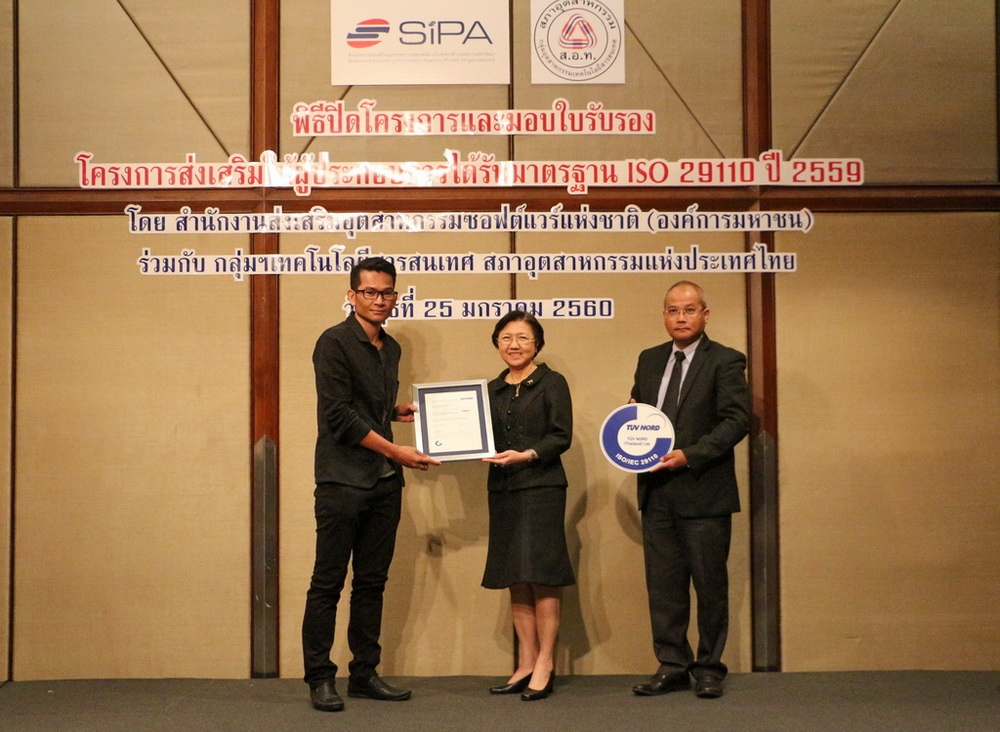
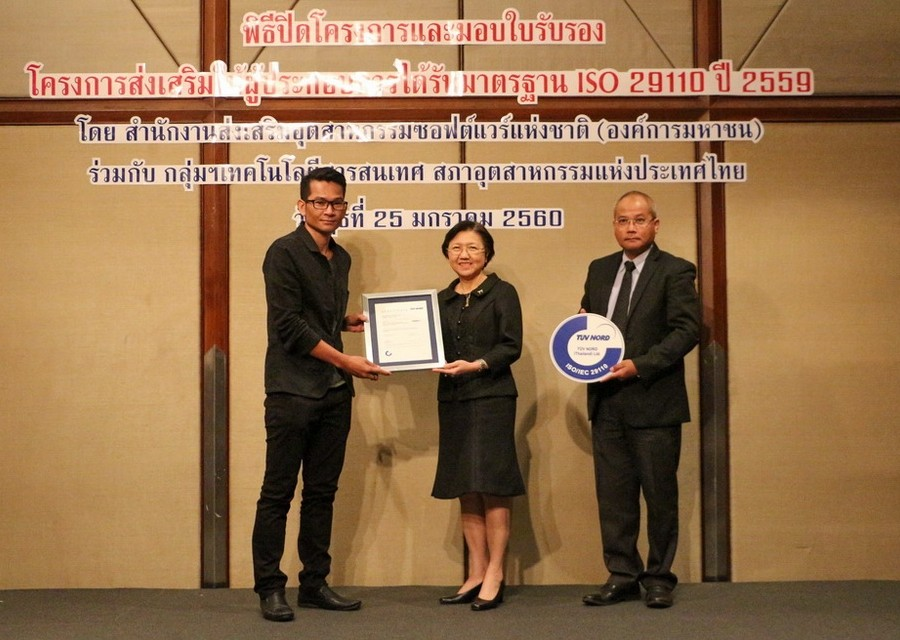
feat: optimize ceremony photo framing and object positioning to prominently feature recipients

diff --git a/components/NewsBentoSection.vue b/components/NewsBentoSection.vue
@@ -159,15 +159,16 @@ onUnmounted(() => {
                   </div>
                 </div>
 
-                <!-- Bottom Photo with Seamless Fade Mask -->
-                <div class="relative w-full h-[220px] sm:h-[250px] overflow-hidden mt-auto">
+                <!-- Bottom Photo with Subtle Edge Blend -->
+                <div class="relative w-full h-[220px] sm:h-[250px] overflow-hidden mt-auto bg-slate-100">
                   <img
                     :src="slide[0].image"
                     :alt="slide[0].title"
                     loading="lazy"
-                    class="w-full h-full object-cover object-top group-hover:scale-105 transition-transform duration-700 ease-out"
+                    :style="slide[0].imagePosition ? { objectPosition: slide[0].imagePosition } : {}"
+                    class="w-full h-full object-cover object-center group-hover:scale-105 transition-transform duration-700 ease-out"
                   />
-                  <div class="absolute inset-0 bg-gradient-to-t from-transparent via-white/10 to-white/95 pointer-events-none"></div>
+                  <div class="absolute top-0 inset-x-0 h-6 bg-gradient-to-b from-white to-transparent pointer-events-none"></div>
                 </div>
               </NuxtLink>
             </div>
@@ -204,15 +205,16 @@ onUnmounted(() => {
                   </div>
                 </div>
 
-                <!-- Bottom Photo with Seamless Fade Mask -->
-                <div class="relative w-full h-[220px] sm:h-[250px] overflow-hidden mt-auto">
+                <!-- Bottom Photo with Subtle Edge Blend -->
+                <div class="relative w-full h-[220px] sm:h-[250px] overflow-hidden mt-auto bg-slate-100">
                   <img
                     :src="slide[1].image"
                     :alt="slide[1].title"
                     loading="lazy"
-                    class="w-full h-full object-cover object-top group-hover:scale-105 transition-transform duration-700 ease-out"
+                    :style="slide[1].imagePosition ? { objectPosition: slide[1].imagePosition } : {}"
+                    class="w-full h-full object-cover object-center group-hover:scale-105 transition-transform duration-700 ease-out"
                   />
-                  <div class="absolute inset-0 bg-gradient-to-t from-transparent via-white/10 to-white/95 pointer-events-none"></div>
+                  <div class="absolute top-0 inset-x-0 h-6 bg-gradient-to-b from-white to-transparent pointer-events-none"></div>
                 </div>
               </NuxtLink>
             </div>
@@ -254,15 +256,16 @@ onUnmounted(() => {
                   </div>
                 </div>
 
-                <!-- Bottom Photo with Seamless Fade Mask -->
-                <div class="relative w-full h-[210px] sm:h-[240px] overflow-hidden mt-auto">
+                <!-- Bottom Photo with Subtle Edge Blend -->
+                <div class="relative w-full h-[210px] sm:h-[240px] overflow-hidden mt-auto bg-slate-100">
                   <img
                     :src="post.image"
                     :alt="post.title"
                     loading="lazy"
-                    class="w-full h-full object-cover object-top group-hover:scale-105 transition-transform duration-700 ease-out"
+                    :style="post.imagePosition ? { objectPosition: post.imagePosition } : {}"
+                    class="w-full h-full object-cover object-center group-hover:scale-105 transition-transform duration-700 ease-out"
                   />
-                  <div class="absolute inset-0 bg-gradient-to-t from-transparent via-white/10 to-white/95 pointer-events-none"></div>
+                  <div class="absolute top-0 inset-x-0 h-6 bg-gradient-to-b from-white to-transparent pointer-events-none"></div>
                 </div>
               </NuxtLink>
             </div>
@@ -312,15 +315,16 @@ onUnmounted(() => {
               </div>
             </div>
 
-            <!-- Bottom Photo with Fade -->
-            <div class="relative w-full h-[200px] overflow-hidden mt-auto">
+            <!-- Bottom Photo with Subtle Edge Blend -->
+            <div class="relative w-full h-[200px] overflow-hidden mt-auto bg-slate-100">
               <img
                 :src="post.image"
                 :alt="post.title"
                 loading="lazy"
-                class="w-full h-full object-cover object-top"
+                :style="post.imagePosition ? { objectPosition: post.imagePosition } : {}"
+                class="w-full h-full object-cover object-center"
               />
-              <div class="absolute inset-0 bg-gradient-to-t from-transparent via-white/10 to-white/95 pointer-events-none"></div>
+              <div class="absolute top-0 inset-x-0 h-6 bg-gradient-to-b from-white to-transparent pointer-events-none"></div>
             </div>
           </NuxtLink>
         </div>

diff --git a/pages/news/[slug].vue b/pages/news/[slug].vue
@@ -129,29 +129,26 @@ useSeoMeta({
         <!-- Main Cover Photo (รูปแรกคือหน้าปกที่จะเห็น) -->
         <div class="mb-10">
           <div
-            class="group relative overflow-hidden rounded-[24px] sm:rounded-[32px] bg-slate-900 border border-slate-200/80 shadow-xl cursor-pointer"
+            class="group relative overflow-hidden rounded-[24px] sm:rounded-[32px] bg-slate-100 border border-slate-200/80 shadow-xl cursor-pointer"
             @click="openImagePreview(post.image, post.title, post.imageCaption)"
           >
             <img
               :src="post.image"
               :alt="post.title"
-              class="w-full h-auto max-h-[680px] object-cover object-top group-hover:scale-[1.01] transition-transform duration-500 ease-out"
+              :style="post.imagePosition ? { objectPosition: post.imagePosition } : {}"
+              class="w-full h-auto max-h-[760px] object-cover object-center group-hover:scale-[1.01] transition-transform duration-500 ease-out"
             />
-            <div class="absolute inset-0 bg-gradient-to-t from-black/75 via-black/15 to-transparent flex items-end p-5 sm:p-7">
-              <div class="flex items-center justify-between w-full text-white">
-                <span class="text-xs sm:text-sm font-medium line-clamp-1 max-w-[85%] drop-shadow">
-                  {{ post.title }}
-                </span>
-                <span class="flex items-center gap-1 text-[11px] bg-white/20 hover:bg-white/30 backdrop-blur-md px-3 py-1 rounded-full text-white font-medium transition-all">
-                  <svg class="w-3.5 h-3.5" fill="none" viewBox="0 0 24 24" stroke="currentColor">
-                    <path stroke-linecap="round" stroke-linejoin="round" stroke-width="2" d="M21 21l-6-6m2-5a7 7 0 11-14 0 7 7 0 0114 0zM10 7v3m0 0v3m0-3h3m-3 0H7" />
-                  </svg>
-                  <span>ขยายภาพ</span>
-                </span>
-              </div>
+            <!-- Clean floating zoom badge on bottom right so people are 100% visible -->
+            <div class="absolute bottom-4 right-4 z-10">
+              <span class="inline-flex items-center gap-1.5 text-xs bg-black/60 hover:bg-black/80 backdrop-blur-md px-3.5 py-1.5 rounded-full text-white font-medium shadow-md transition-all">
+                <svg class="w-3.5 h-3.5" fill="none" viewBox="0 0 24 24" stroke="currentColor">
+                  <path stroke-linecap="round" stroke-linejoin="round" stroke-width="2" d="M21 21l-6-6m2-5a7 7 0 11-14 0 7 7 0 0114 0zM10 7v3m0 0v3m0-3h3m-3 0H7" />
+                </svg>
+                <span>คลิกขยายภาพเต็ม</span>
+              </span>
             </div>
           </div>
-          <p v-if="post.imageCaption" class="mt-2.5 text-xs text-slate-500 text-center italic">
+          <p v-if="post.imageCaption" class="mt-3 text-xs sm:text-sm text-slate-500 text-center italic leading-relaxed">
             {{ post.imageCaption }}
           </p>
         </div>

diff --git a/data/mock.ts b/data/mock.ts
@@ -201,6 +201,7 @@ export const posts: Post[] = [
 
 โดยที่มาตรฐาน ISO 29110 ให้ความสำคัญในกระบวนการที่จะต้องทำการปรับปรุงให้เป็นระบบ 2 กระบวนการหลัก คือ กระบวนการด้านการบริหารโครงการ (Project Management) และ กระบวนการด้านการสร้างซอฟต์แวร์ (Software Implementation)`,
     image: '/images/news/iso-29110-award-ceremony.jpg',
+    imagePosition: 'center 60%',
     imageCaption: 'พิธีปิดโครงการและมอบใบรับรอง โครงการส่งเสริมให้ผู้ประกอบการได้รับมาตรฐาน ISO 29110 ปี 2559 โดย สำนักงานส่งเสริมอุตสาหกรรมซอฟต์แวร์แห่งชาติ (องค์การมหาชน) SIPA ร่วมกับ กลุ่มฯเทคโนโลยีสารสนเทศ สภาอุตสาหกรรมแห่งประเทศไทย และ TUV NORD (Thailand) Ltd.',
     certBadge: {
       image: '/images/news/tuv-nord-iso-29110-logo.png',

diff --git a/types/content.ts b/types/content.ts
@@ -49,6 +49,7 @@ export interface Post {
   excerpt: string
   body: string
   image: string
+  imagePosition?: string
   imageCaption?: string
   publishedAt: string
   gallery?: string[]
